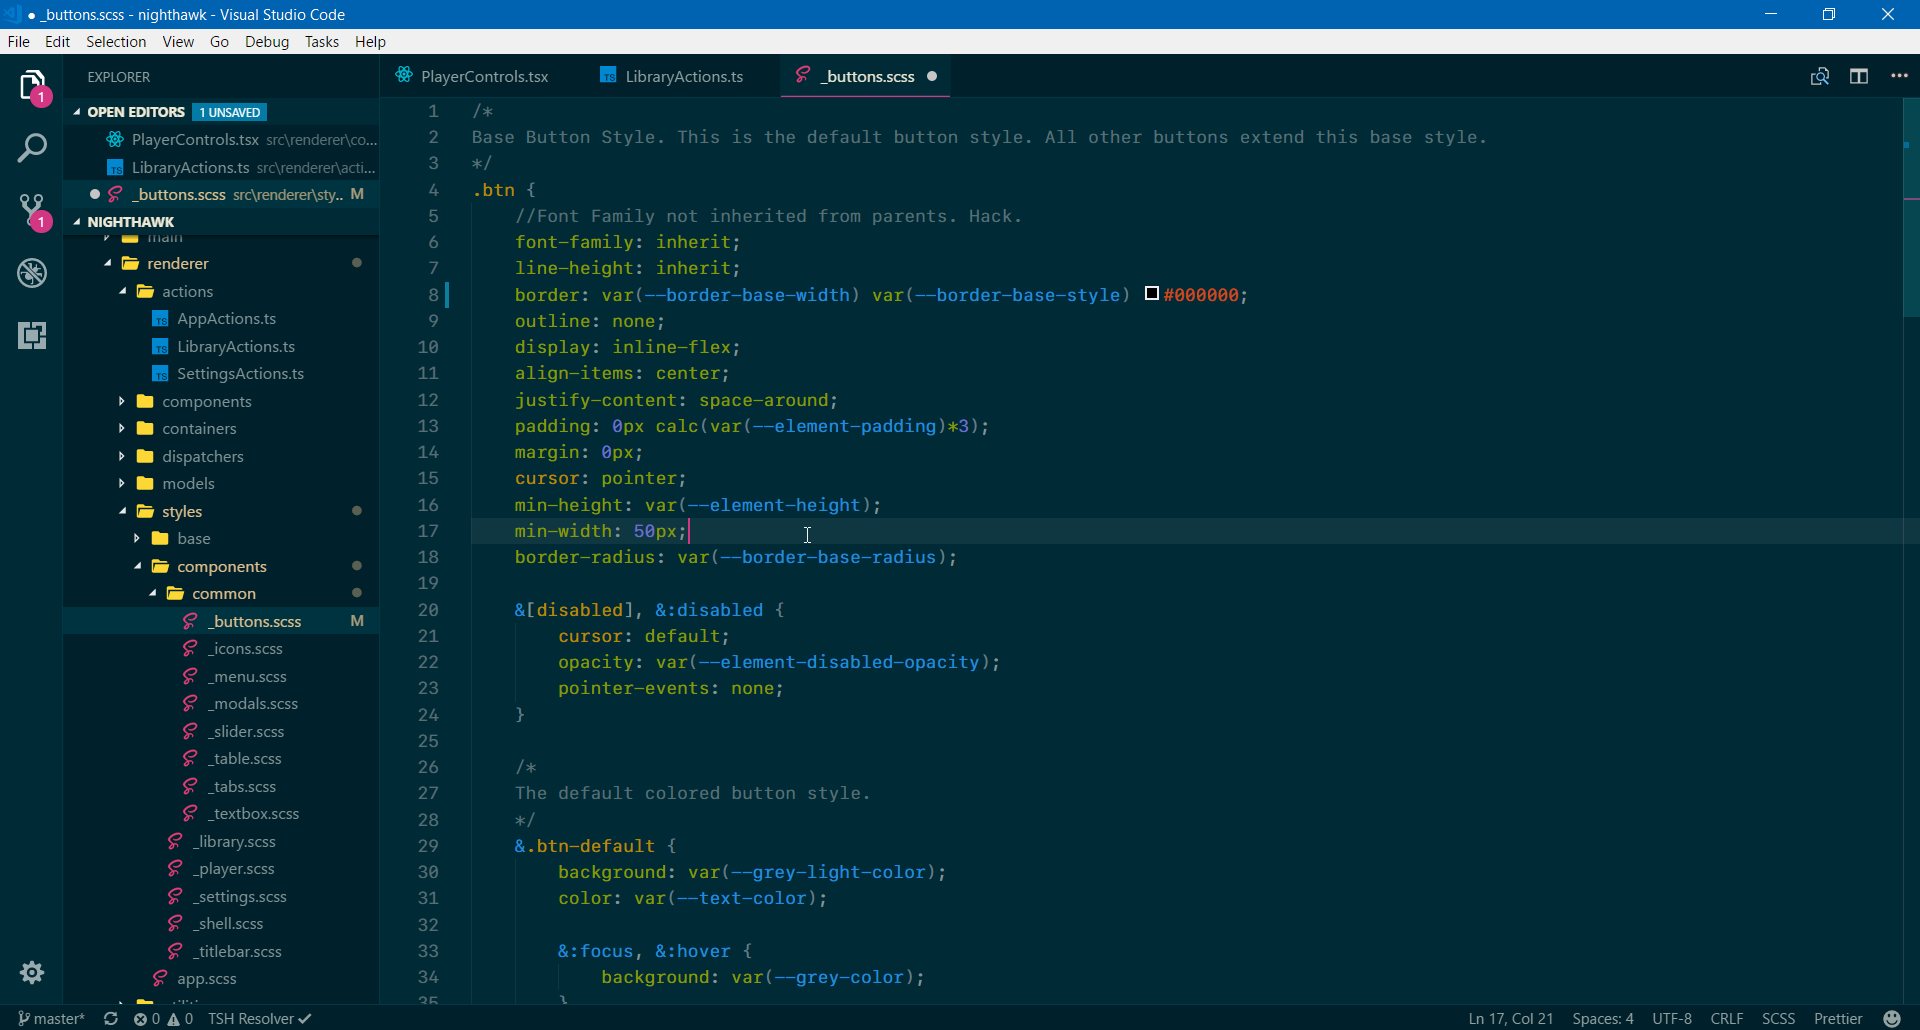
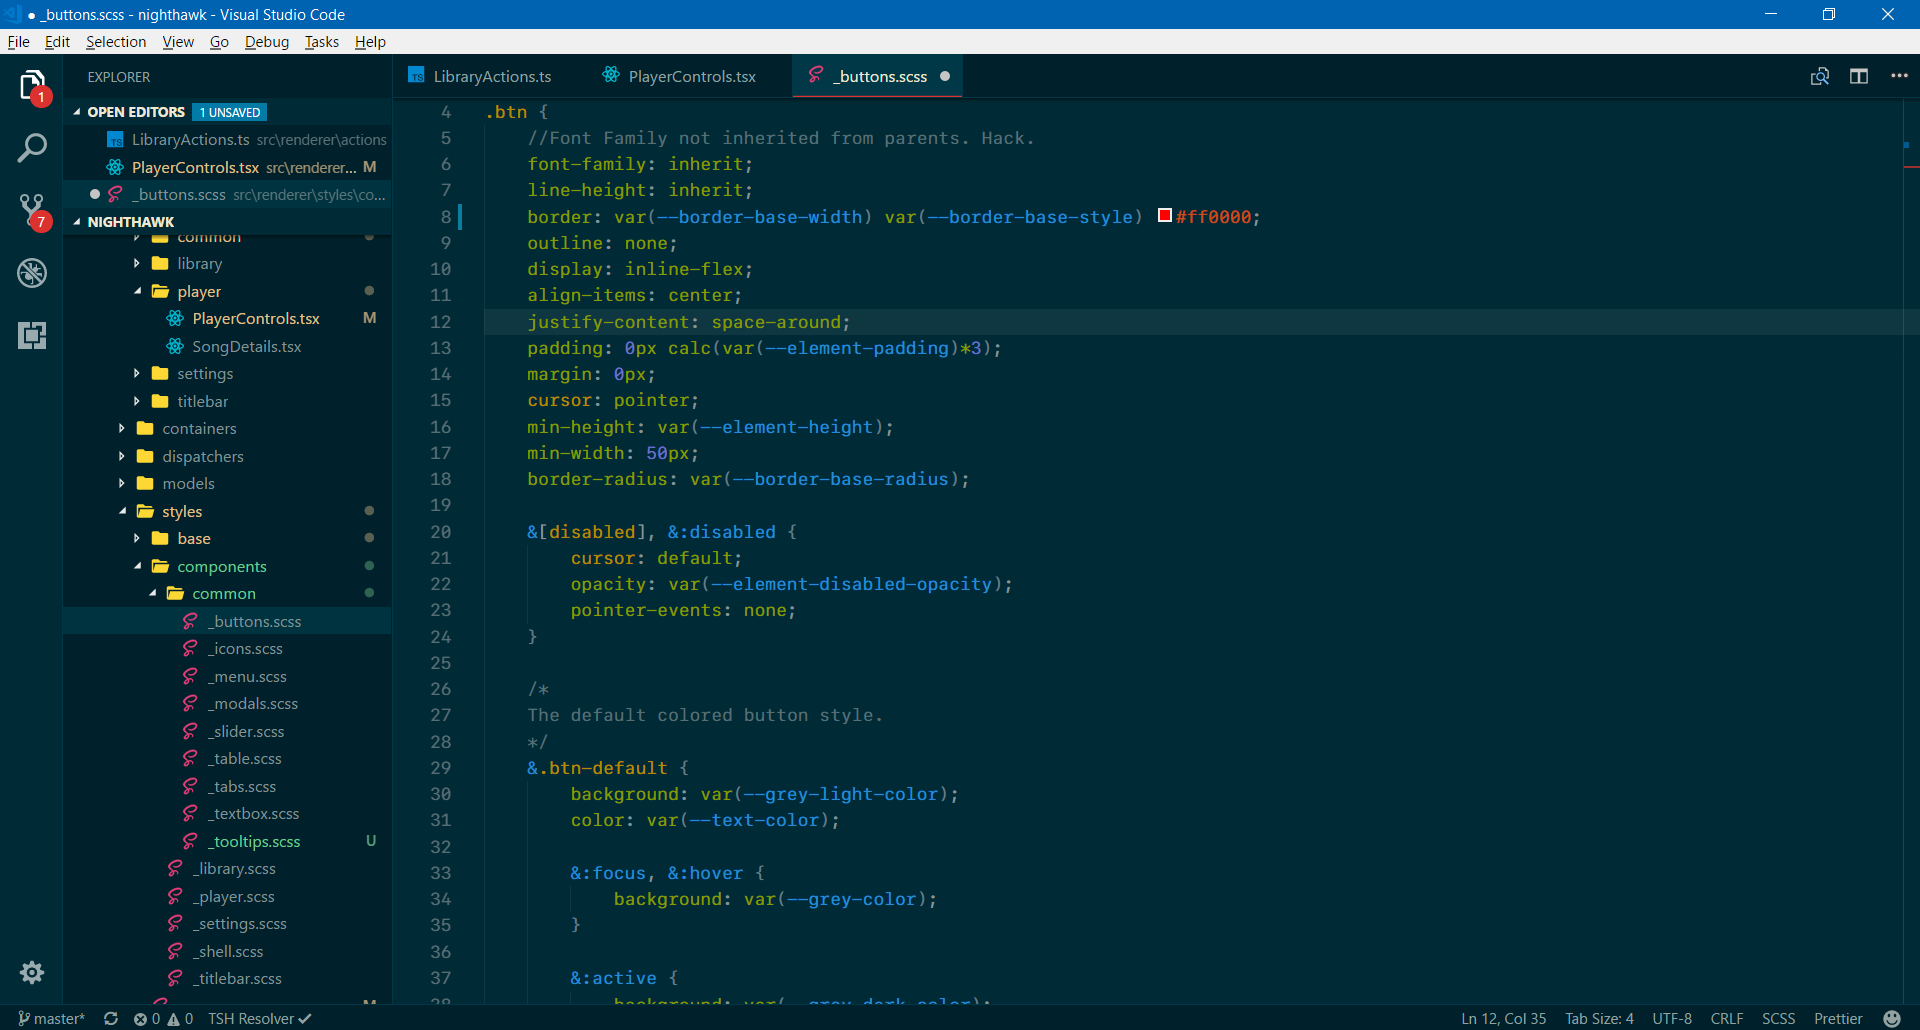
Updated to 1.1.0
Updated the theme to 1.1.0 and updated screenshots

diff --git a/CHANGELOG.md b/CHANGELOG.md
@@ -3,6 +3,9 @@ All notable changes to the "solarized-next" extension will be documented in this
 
 Check [Keep a Changelog](http://keepachangelog.com/) for recommendations on how to structure this file.
 
+## [1.1.0]
+- Changed a few workspace colors
+
 ## [1.0.1]
 - Fixed Image Paths
 
